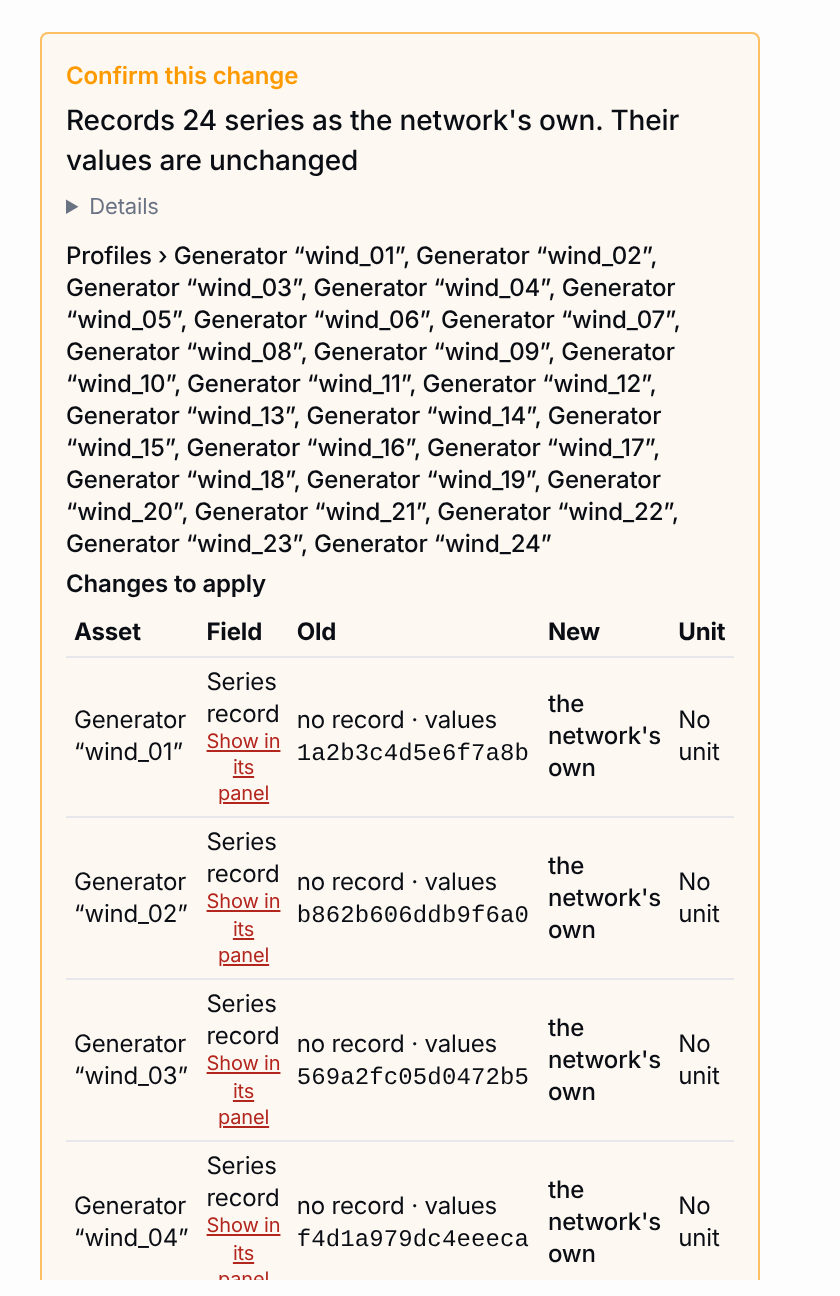
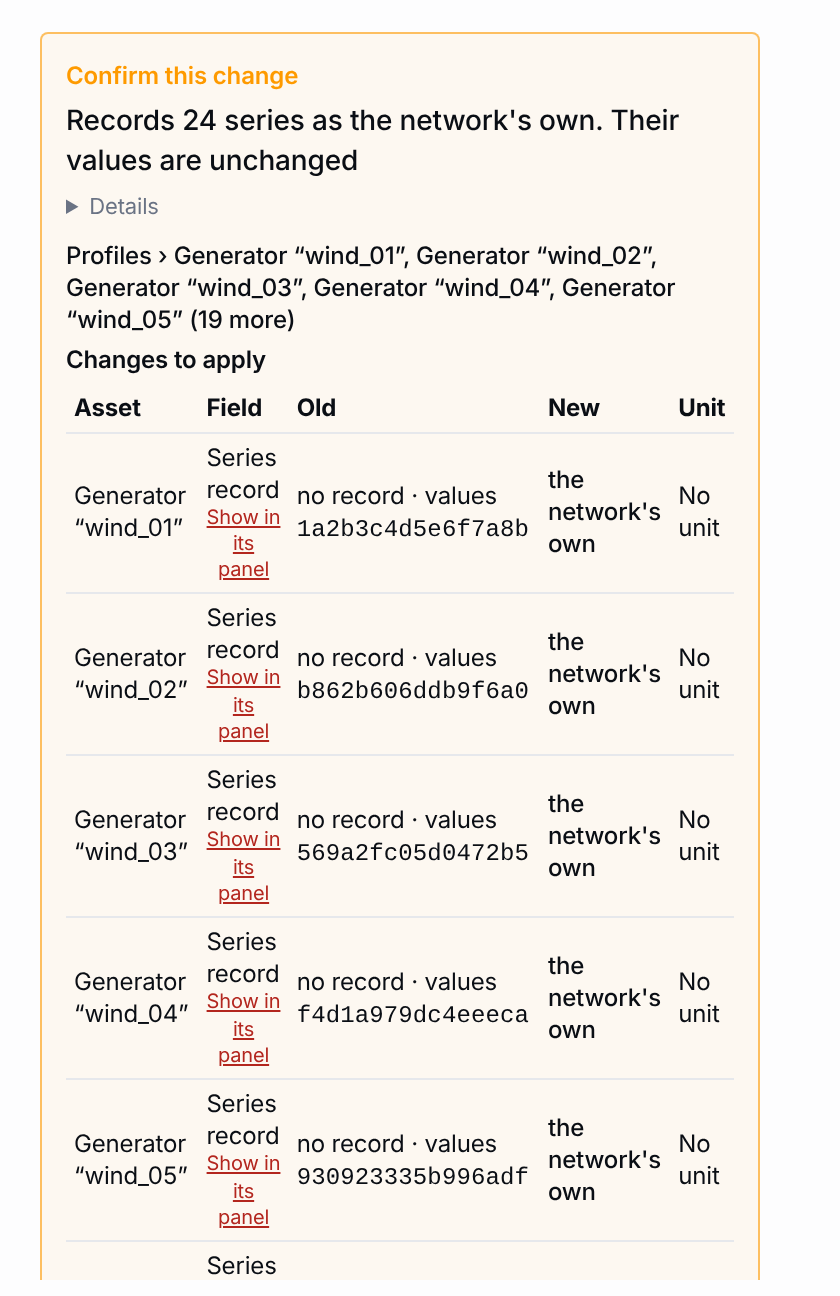
RP-20 (UX #1396): the card's scope line names 5 series then "(N more)"; re-shot
Claude-Session: https://claude.ai/code/session_01G7qCukdeqtPhXV4NS6nB73

diff --git a/pypsa-gui/frontend/src/components/EditCard.test.tsx b/pypsa-gui/frontend/src/components/EditCard.test.tsx
@@ -1,7 +1,7 @@
 import { afterEach, beforeEach, expect, it, vi } from 'vitest'
 import { cleanup, render, screen, within } from '@testing-library/react'
 import userEvent from '@testing-library/user-event'
-import { EditCardTable, editCardWords, HEADLINE_CAP, type EditCard } from './EditCard'
+import { EditCardTable, editCardHeader, editCardWords, HEADLINE_CAP, type EditCard } from './EditCard'
 import { ConfirmationCard } from './ConfirmationCard'
 import AssistantResultCard from './AssistantResultCard'
 import { useChatStore } from '../store/chatStore'
@@ -440,4 +440,18 @@ it('RP-20 (UX #1396): Guided heads the unrecorded-series card with its own sente
     edit_card: { ...card, tool: 'confirm_unrecorded_series', says, rows: [row] } as unknown as EditCard } })
   render(<ConfirmationCard />)
   expect(screen.getByTestId('chat-confirmation-summary').textContent).toBe(says)
+})
+
+it('RP-20 (UX #1396): the unrecorded-series card names 5 series then "(N more)"; other cards name all', () => {
+  const rows = Array.from({ length: 24 }, (_, i) => ({ component_class: 'Generator', name: `wind_${i + 1}`,
+    field: 'provenance', label: 'Series record', old: 'no record', new: "the network's own", unit: '', role: 'typed',
+    target: { section: 'profiles', panel: 'timeseries', component: 'Generator', entity: `wind_${i + 1}`, field: 'provenance' } }))
+  const base = { ...card, section: { id: 'profiles', label: 'Profiles' }, rows }
+  const names = (n: number) => Array.from({ length: n }, (_, i) => `Generator “wind_${i + 1}”`).join(', ')
+  expect(editCardHeader({ ...base, tool: 'confirm_unrecorded_series' } as unknown as EditCard))
+    .toBe(`Profiles › ${names(5)} (19 more)`)
+  expect(editCardHeader({ ...base, tool: 'update_component' } as unknown as EditCard)).toBe(`Profiles › ${names(24)}`)
+  // At the cap, no "(0 more)".
+  expect(editCardHeader({ ...base, tool: 'confirm_unrecorded_series', rows: rows.slice(0, 5) } as unknown as EditCard))
+    .toBe(`Profiles › ${names(5)}`)
 })

diff --git a/pypsa-gui/frontend/src/components/EditCard.tsx b/pypsa-gui/frontend/src/components/EditCard.tsx
@@ -213,8 +213,16 @@ export function editCardHeader(card: EditCard): string {
     if (!names.includes(words)) names.push(words)
     byKey.set(key, names)
   }
-  return [...byKey].map(([key, names]) => key ? `${key} \u203a ${names.join(', ')}` : names.join(', ')).join('; ')
+  const capped = CAPPED_SCOPE.has(card.tool)
+  const list = (names: string[]) => capped && names.length > SCOPE_NAME_CAP
+    ? `${names.slice(0, SCOPE_NAME_CAP).join(', ')} (${names.length - SCOPE_NAME_CAP} more)` : names.join(', ')
+  return [...byKey].map(([key, names]) => key ? `${key} \u203a ${list(names)}` : list(names)).join('; ')
 }
+
+/** Cards whose scope line names at most SCOPE_NAME_CAP assets then "(N more)": RP-20's record
+ * of N series (UX #1396), whose table lists every one. Other cards keep their full line. */
+export const CAPPED_SCOPE: ReadonlySet<string> = new Set(['confirm_unrecorded_series'])
+export const SCOPE_NAME_CAP = 5
 
 /** `text` with its trailing `code` in the mono id style; plain when it does not end with it. */
 function withCode(text: string, code?: string) {
